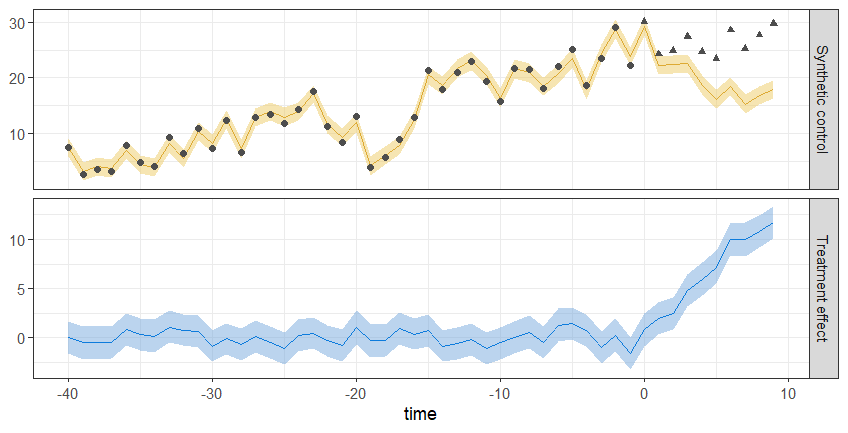
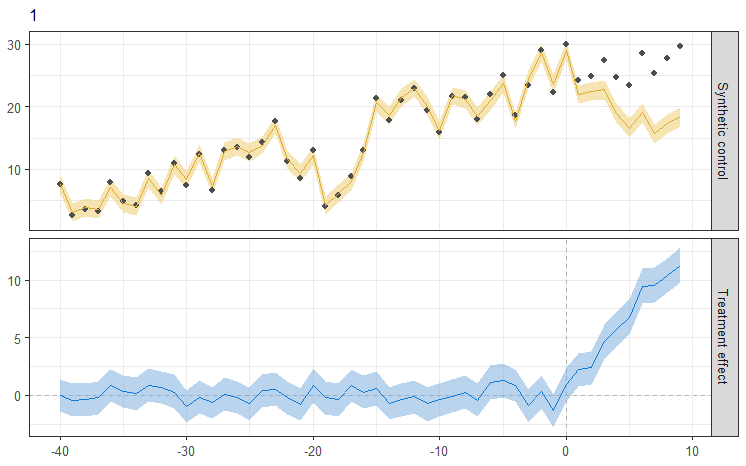
fix loo_R2 for multiple treated, update README

diff --git a/README.md b/README.md
@@ -39,36 +39,39 @@ library(bscm)
 set.seed(3546)
 fit <- bscm(
     y ~ x, data = single_treated, 
-    treatment = "treatment",  time = "time",  unit = "id"
+    treatment = "treatment",  time = "time",  unit = "id",
+    chains = 2, refresh = 0, 
+    priors = list(omega = dirichlet_pr(0.5), beta = normal_pr(0, 2))
 )
 ```
 Basic summary of the estimated model:
 ``` r
-fit
 Call:
 bscm(formula = y ~ x, data = single_treated, treatment = "treatment", 
-    time = "time", unit = "id")
+    time = "time", unit = "id", priors = list(omega = dirichlet_pr(0.5), 
+        beta = normal_pr(0, 2)), chains = 2, refresh = 0)
 
 Bayesian synthetic control model y ~ x  
 Treated unit: 1 
 Number of donors: 50 
 Number of time periods (pre + post): 40 + 10 
-MCMC sampling using 4 chains, each with 2500 + 2500 iterations took 6.82 seconds for the slowest chain
+MCMC sampling using 2 chains, each with 2500 + 2500 iterations took 5.77 seconds for the slowest chain
 
 MCMC diagnostics indicate no issues. 
-```
-``` r
-summary(fit)
-  variable                          mean      sd   q2.5  q97.5  rhat ess_bulk ess_tail mcse_mean
-1 Intercept                      0.506   0.370   -0.223  1.24   1.00   11183.    9289. 0.00350  
-2 beta_x                         1.01    0.0703   0.874  1.15   1.00   10267.    7509. 0.000695 
-3 Residual SD                    0.781   0.112    0.595  1.03   1.00    8848.    8223. 0.00120  
-4 Bayesian R2                    0.988   0.00352  0.979  0.993  1.00    8757.    8100. 0.0000384
-5 Effective number of donors    23.0     3.70    15.2   29.8    1.00    6816.    8774. 0.0448   
-6 Average pre-treatment effect  -0.00158 0.175   -0.352  0.339  1.00   10068.    8911. 0.00175  
-7 Average post-treatment effect  6.57    0.331    5.94   7.24   1.00   10120.    9078. 0.00329  
-8 Pre-treatment RMSE             1.08    0.152    0.821  1.41   1.00    8384.    8599. 0.00167  
-9 Post-treatment RMSE            7.61    0.332    6.99   8.29   1.00    9860.    9234. 0.00335  
+
+Summary statistics of the time-invariant parameters:
+  variable     mean     sd   q2.5 q97.5
+1 Intercept   0.455 0.395  -0.313 1.23 
+2 beta_x      1.01  0.0687  0.870 1.14 
+3 Residual SD 0.678 0.0977  0.515 0.900
+
+Average treatment effects and measures of model fit:
+  variable                            mean      sd   q2.5 q97.5
+1 Average pre-treatment effect  -0.0000702 0.156   -0.303 0.314
+2 Average post-treatment effect  6.33      0.331    5.69  6.99 
+3 Bayesian R2                    0.991     0.00271  0.984 0.995
+4 Pre-treatment RMSE             0.946     0.136    0.714 1.24 
+5 Post-treatment RMSE            7.29      0.340    6.64  7.99
 ```
 And default visualization:
 ``` r

diff --git a/NEWS.md b/NEWS.md
@@ -1,12 +1,14 @@
 # bscm 1.0.2
 
+* Fixed `loo_R2` for multiple treated units.
 * `coef` now returns the total effect of each predictor instead of the
   individual model parameters, one type at a time: the intercepts with
   `type = "intercept"`, the coefficients of the predictors whose effect is
   constant with `type = "fixed"` (the default), and the total effect
   `beta + gamma_t` of each time-varying predictor at each time point with
   `type = "varying"`.
-* `plot_coefs` no longer has an argument `combine`, and always shows the total effect `beta + gamma_t` of the time-varying predictors. 
+* `plot_coefs` no longer has an argument `combine`, and always shows the total 
+  effect `beta + gamma_t` of the time-varying predictors. 
 * `summary` now returns posterior summaries of the model parameters, named as
   in the posterior draws, and no longer has a class and a print method of its
   own. It gained an argument `parameters` for selecting the parameters to
@@ -34,7 +36,8 @@
   the pre-treatment period.
 * Default `type` argument in `tv()` is now `rw2` matching the second difference 
   penalty of the spline coefficients (old default was `rw1` for first 
-  differences).
+  differences). Use of `rw2` adds another parameter `nu`, which is the slope 
+  of the linear trend in `gamma`.
 * Fixes and changes to `plot` methods: visualization is now separated from the 
   the summary methods, with argument `unit` specifying which units to plot.
 * Fixed the generation of posterior predictive means for the post-treatment 
